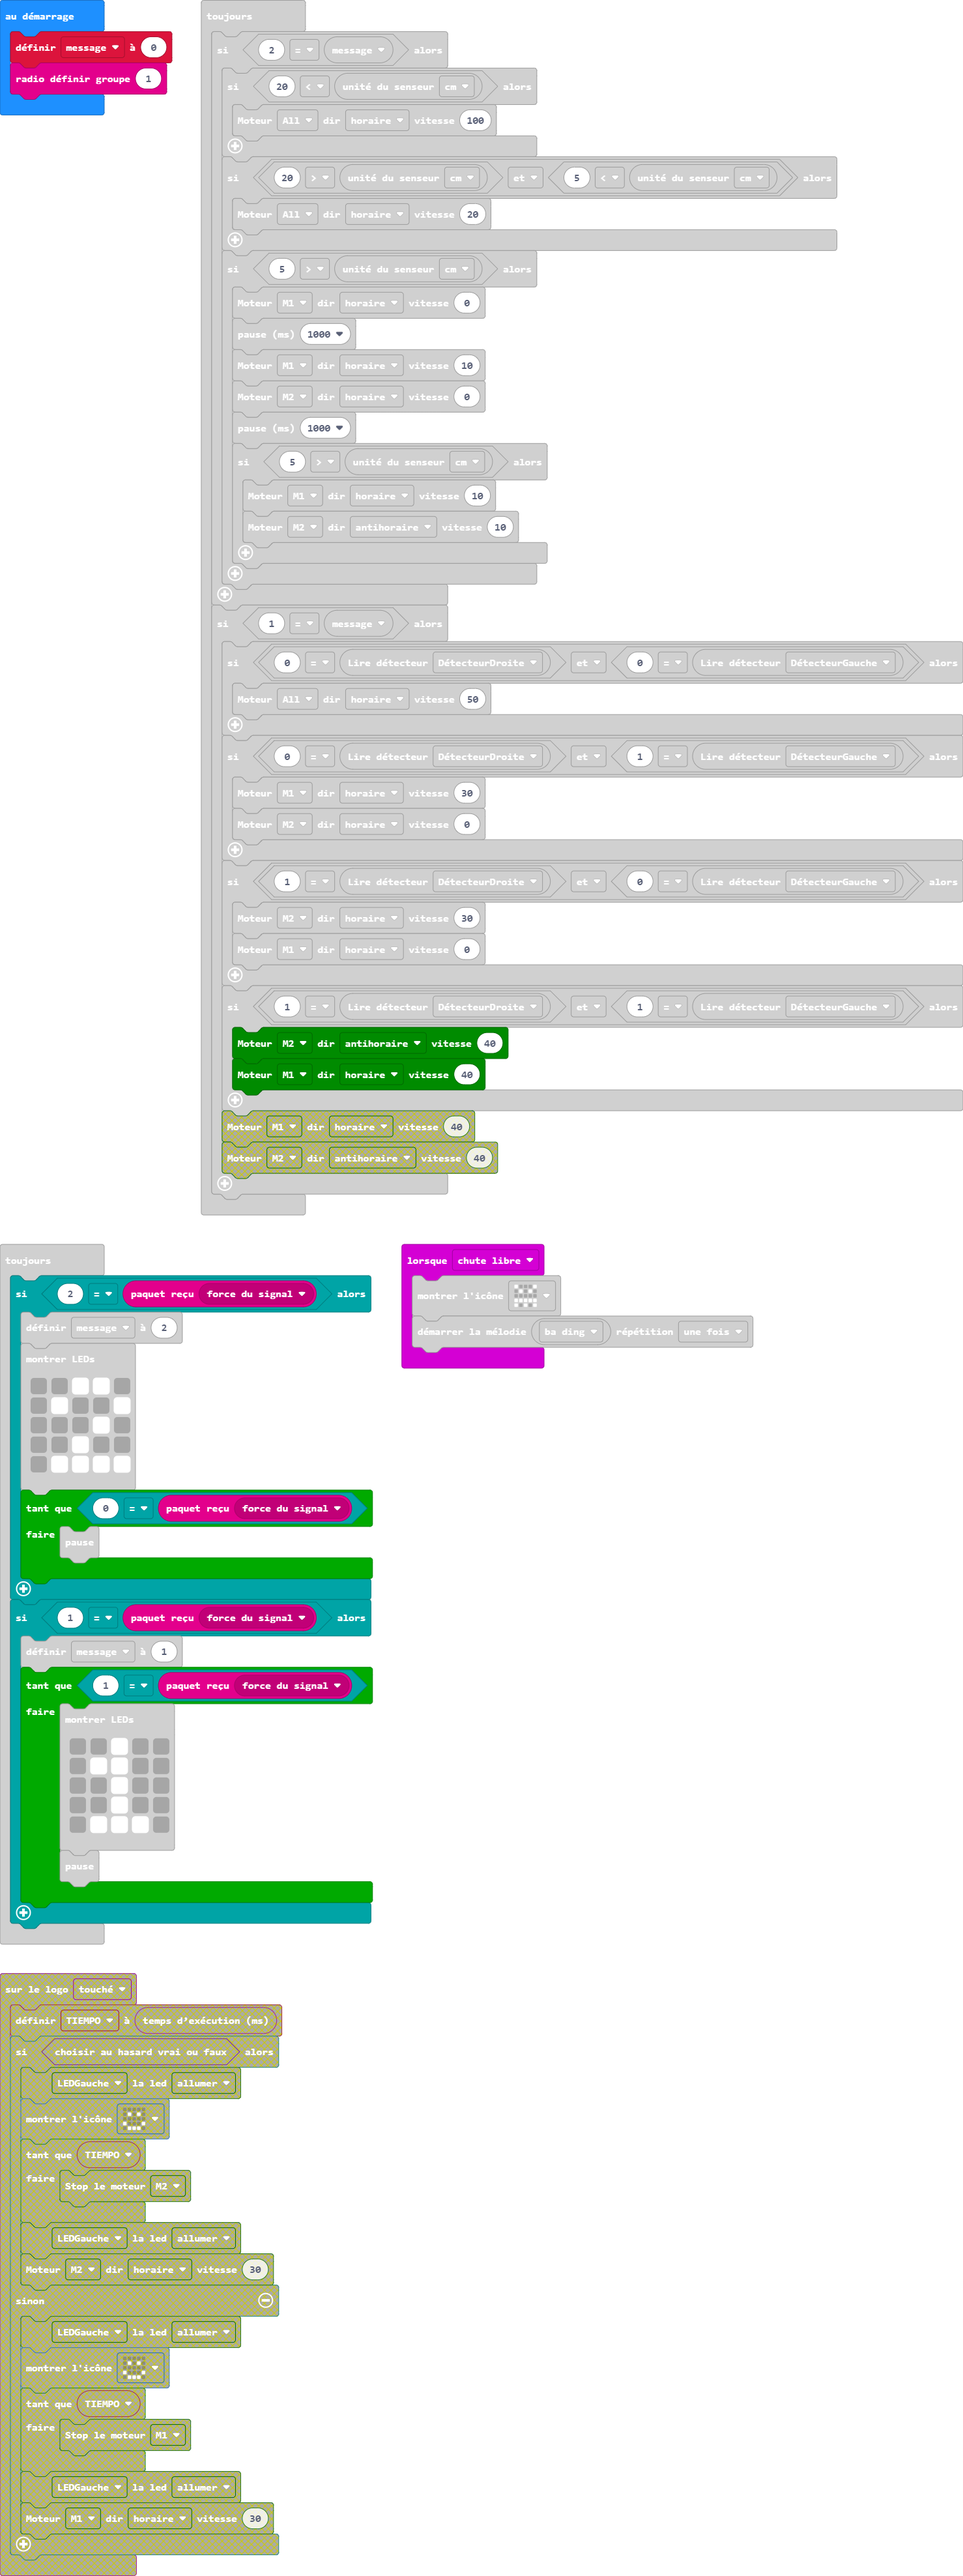
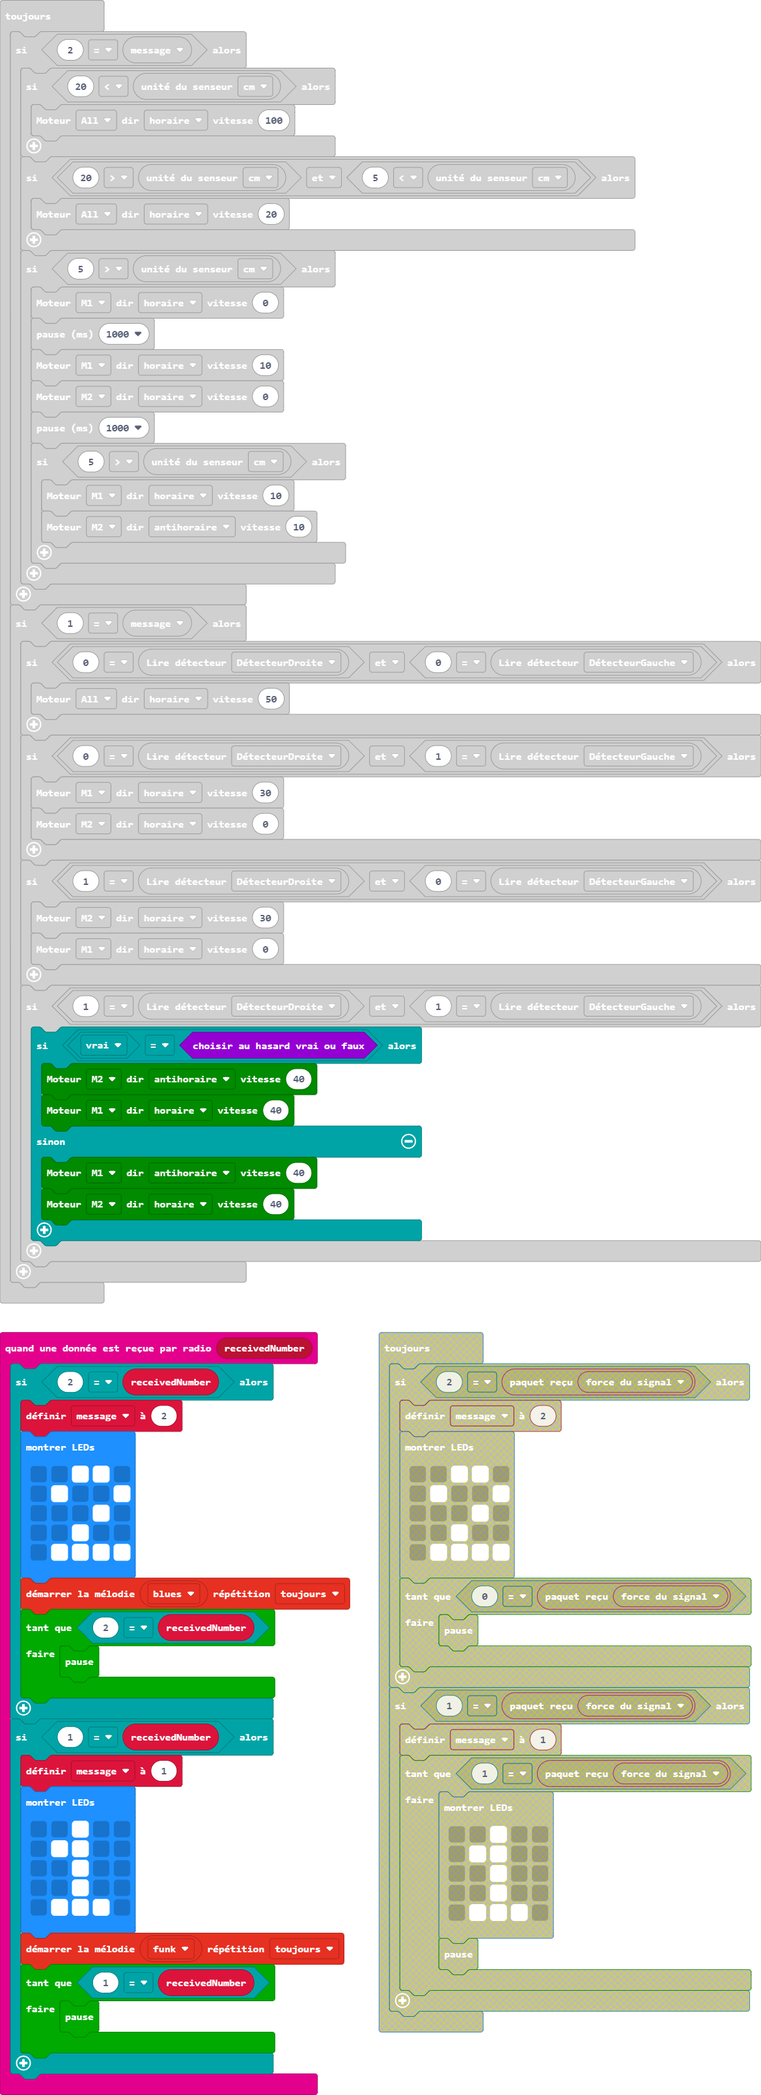
Mise à jour main.blocks, main.ts

diff --git a/main.ts b/main.ts
@@ -1,3 +1,33 @@
+radio.onReceivedNumber(function (receivedNumber) {
+    if (2 == receivedNumber) {
+        message = 2
+        basic.showLeds(`
+            . . # # .
+            . # . . #
+            . . . # .
+            . . # . .
+            . # # # #
+            `)
+        music.startMelody(music.builtInMelody(Melodies.Blues), MelodyOptions.Forever)
+        while (2 == receivedNumber) {
+            break;
+        }
+    }
+    if (1 == receivedNumber) {
+        message = 1
+        basic.showLeds(`
+            . . # . .
+            . # # . .
+            . . # . .
+            . . # . .
+            . # # # .
+            `)
+        music.startMelody(music.builtInMelody(Melodies.Funk), MelodyOptions.Forever)
+        while (1 == receivedNumber) {
+            break;
+        }
+    }
+})
 input.onGesture(Gesture.LogoDown, function () {
     basic.showIcon(IconNames.No)
     music.startMelody(music.builtInMelody(Melodies.Wawawawaa), MelodyOptions.Once)
@@ -7,6 +37,7 @@ input.onGesture(Gesture.FreeFall, function () {
     music.startMelody(music.builtInMelody(Melodies.BaDing), MelodyOptions.Once)
 })
 let message = 0
+message = 0
 radio.setGroup(1)
 basic.forever(function () {
     if (2 == message) {
@@ -41,36 +72,13 @@ basic.forever(function () {
             maqueen.motorRun(maqueen.Motors.M1, maqueen.Dir.CW, 0)
         }
         if (1 == maqueen.readPatrol(maqueen.Patrol.PatrolRight) && 1 == maqueen.readPatrol(maqueen.Patrol.PatrolLeft)) {
-            maqueen.motorRun(maqueen.Motors.M2, maqueen.Dir.CCW, 40)
-            maqueen.motorRun(maqueen.Motors.M1, maqueen.Dir.CW, 40)
-        }
-    }
-})
-basic.forever(function () {
-    if (2 == radio.receivedPacket(RadioPacketProperty.SignalStrength)) {
-        message = 2
-        basic.showLeds(`
-            . . # # .
-            . # . . #
-            . . . # .
-            . . # . .
-            . # # # #
-            `)
-        while (0 == radio.receivedPacket(RadioPacketProperty.SignalStrength)) {
-            break;
-        }
-    }
-    if (1 == radio.receivedPacket(RadioPacketProperty.SignalStrength)) {
-        message = 1
-        while (1 == radio.receivedPacket(RadioPacketProperty.SignalStrength)) {
-            basic.showLeds(`
-                . . # . .
-                . # # . .
-                . . # . .
-                . . # . .
-                . # # # .
-                `)
-            break;
+            if (true == Math.randomBoolean()) {
+                maqueen.motorRun(maqueen.Motors.M2, maqueen.Dir.CCW, 40)
+                maqueen.motorRun(maqueen.Motors.M1, maqueen.Dir.CW, 40)
+            } else {
+                maqueen.motorRun(maqueen.Motors.M1, maqueen.Dir.CCW, 40)
+                maqueen.motorRun(maqueen.Motors.M2, maqueen.Dir.CW, 40)
+            }
         }
     }
 })
